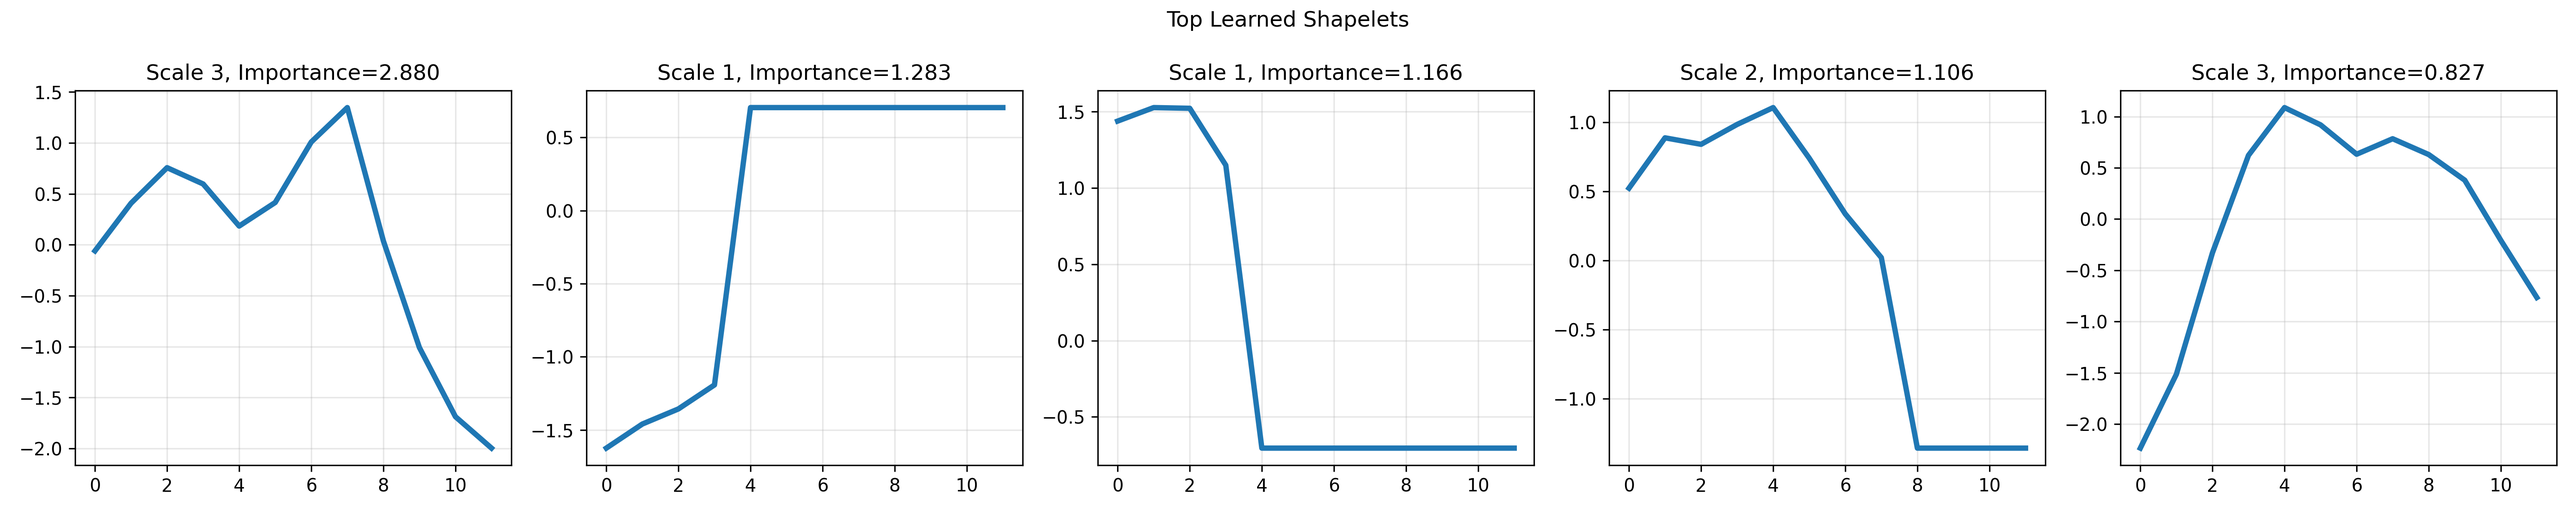
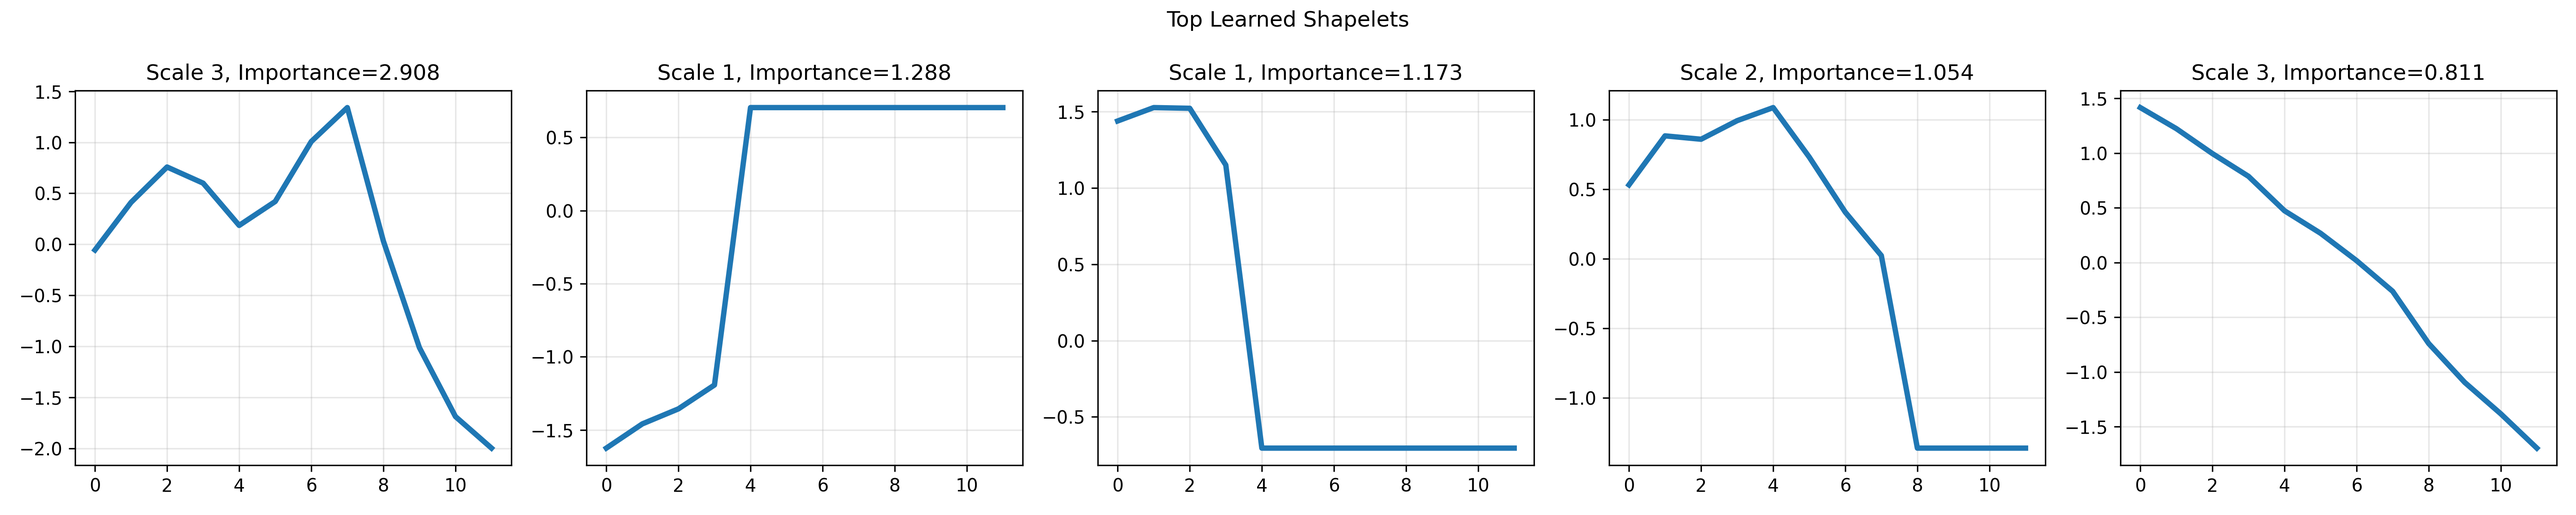
mise à jour

diff --git a/experiments/methodes_benchmark.py b/experiments/methodes_benchmark.py
@@ -1,0 +1,244 @@
+import os
+import json
+import numpy as np
+import pandas as pd
+import matplotlib.pyplot as plt
+import seaborn as sns
+
+from sklearn.metrics import accuracy_score, classification_report, confusion_matrix
+from sklearn.neighbors import KNeighborsClassifier
+from sklearn.svm import SVC
+from sklearn.linear_model import LogisticRegression
+
+from src.lts import LearningTimeSeriesShapelets
+from src.utils import load_ucr_dataset, normalize_with_sklearn
+
+
+# -----------------------------
+# Config
+# -----------------------------
+SEED = 42
+np.random.seed(SEED)
+
+PAPER_CFG = dict(
+    K=0.3,
+    L_min=0.2,
+    R=3,
+    lambda_w=0.01,
+    learning_rate=0.01,
+    max_iter=500,     # paper setting (adjust if too slow)
+    alpha=-100
+)
+
+DATASET = dict(
+    name="ItalyPowerDemand",
+    train_path="data/ItalyPowerDemand_TRAIN",
+    test_path="data/ItalyPowerDemand_TEST",
+)
+
+OUTDIR = os.path.join("results", DATASET["name"])
+FIGDIR = os.path.join(OUTDIR, "figures")
+TABDIR = os.path.join(OUTDIR, "tables")
+LOGDIR = os.path.join(OUTDIR, "logs")
+
+for d in [OUTDIR, FIGDIR, TABDIR, LOGDIR]:
+    os.makedirs(d, exist_ok=True)
+
+
+# -----------------------------
+# Helpers
+# -----------------------------
+def save_confusion(y_true, y_pred, title, filename):
+    cm = confusion_matrix(y_true, y_pred)
+    plt.figure(figsize=(6, 5))
+    sns.heatmap(
+        cm, annot=True, fmt="d", cmap="Blues",
+        xticklabels=np.unique(y_true),
+        yticklabels=np.unique(y_true)
+    )
+    plt.title(title)
+    plt.xlabel("Predicted")
+    plt.ylabel("True")
+    plt.tight_layout()
+    plt.savefig(filename, dpi=300)
+    plt.close()
+
+
+def save_class_distribution(y, filename, title="Class distribution (train)"):
+    counts = pd.Series(y).value_counts().sort_index()
+    plt.figure(figsize=(6, 4))
+    sns.barplot(x=counts.index.astype(str), y=counts.values)
+    plt.title(title)
+    plt.xlabel("Class")
+    plt.ylabel("Count")
+    plt.tight_layout()
+    plt.savefig(filename, dpi=300)
+    plt.close()
+
+
+def save_series_by_class(X, y, filename, n_per_class=10, title="Time series by class (train)"):
+    plt.figure(figsize=(10, 5))
+    classes = np.unique(y)
+    for c in classes:
+        idx = np.where(y == c)[0][:n_per_class]
+        for i in idx:
+            plt.plot(X[i], alpha=0.25)
+        plt.plot(X[y == c].mean(axis=0), linewidth=3, label=f"Mean class {c}")
+    plt.title(title)
+    plt.xlabel("Time")
+    plt.ylabel("Value")
+    plt.legend()
+    plt.grid(alpha=0.3)
+    plt.tight_layout()
+    plt.savefig(filename, dpi=300)
+    plt.close()
+
+
+def plot_accuracy_vs_train_fraction(fractions, accs, filename):
+    plt.figure(figsize=(6, 4))
+    plt.plot(fractions, accs, marker="o")
+    plt.title("Accuracy vs Training Size (Paper hyperparameters)")
+    plt.xlabel("Fraction of training data")
+    plt.ylabel("Test accuracy")
+    plt.grid(alpha=0.3)
+    plt.tight_layout()
+    plt.savefig(filename, dpi=300)
+    plt.close()
+
+
+def plot_loss_curve(loss_history, filename):
+    plt.figure(figsize=(6, 4))
+    plt.plot(loss_history)
+    plt.title("Training Loss Convergence")
+    plt.xlabel("Iteration")
+    plt.ylabel("Loss")
+    plt.grid(alpha=0.3)
+    plt.tight_layout()
+    plt.savefig(filename, dpi=300)
+    plt.close()
+
+
+def plot_top_shapelets(lts_model, filename, top_n=5):
+    # Importance across classes: sum_c |W|
+    if lts_model.W.ndim == 3:
+        importance = np.sum(np.abs(lts_model.W), axis=0)  # (R, K)
+    else:
+        importance = np.abs(lts_model.W)
+
+    flat = importance.flatten()
+    top_idx = np.argsort(flat)[-top_n:][::-1]
+
+    fig, axes = plt.subplots(1, len(top_idx), figsize=(4 * len(top_idx), 4))
+    if len(top_idx) == 1:
+        axes = [axes]
+
+    for ax, idx in zip(axes, top_idx):
+        r, k = np.unravel_index(idx, importance.shape)
+        L_r = (r + 1) * lts_model.L_min_len
+        sh = lts_model.S[r, k, :L_r]
+        sh = (sh - sh.mean()) / (sh.std() + 1e-8)
+
+        ax.plot(sh, linewidth=3)
+        ax.set_title(f"Scale {r+1}\nImp={flat[idx]:.3f}")
+        ax.grid(alpha=0.3)
+
+    plt.suptitle("Top Learned Shapelets (Paper setting)")
+    plt.tight_layout()
+    plt.savefig(filename, dpi=300)
+    plt.close()
+
+
+# -----------------------------
+# Load data
+# -----------------------------
+X_train, y_train, X_test, y_test = load_ucr_dataset(DATASET["train_path"], DATASET["test_path"])
+X_train_scaled, X_test_scaled = normalize_with_sklearn(X_train, X_test)
+
+# Save basic EDA figures
+save_class_distribution(y_train, os.path.join(FIGDIR, "class_distribution.png"))
+save_series_by_class(X_train_scaled, y_train, os.path.join(FIGDIR, "series_by_class.png"))
+
+# -----------------------------
+# Run methods
+# -----------------------------
+results = []
+
+# ---- Baseline: 1-NN ----
+knn = KNeighborsClassifier(n_neighbors=1)
+knn.fit(X_train_scaled, y_train)
+pred_knn = knn.predict(X_test_scaled)
+acc_knn = accuracy_score(y_test, pred_knn)
+results.append({"method": "1NN", "accuracy": acc_knn})
+
+save_confusion(y_test, pred_knn, "Confusion Matrix - 1NN", os.path.join(FIGDIR, "cm_1nn.png"))
+
+# ---- Baseline: SVM (RBF) ----
+svm = SVC()
+svm.fit(X_train_scaled, y_train)
+pred_svm = svm.predict(X_test_scaled)
+acc_svm = accuracy_score(y_test, pred_svm)
+results.append({"method": "SVM (RBF)", "accuracy": acc_svm})
+
+save_confusion(y_test, pred_svm, "Confusion Matrix - SVM", os.path.join(FIGDIR, "cm_svm.png"))
+
+# ---- LTS (paper setting) ----
+lts = LearningTimeSeriesShapelets(**PAPER_CFG)
+lts.fit(X_train_scaled, y_train)
+pred_lts = lts.predict(X_test_scaled)
+acc_lts = accuracy_score(y_test, pred_lts)
+results.append({"method": "LTS (paper)", "accuracy": acc_lts})
+
+save_confusion(y_test, pred_lts, "Confusion Matrix - LTS", os.path.join(FIGDIR, "cm_lts.png"))
+
+# If you added loss_history in fit()
+if hasattr(lts, "loss_history") and lts.loss_history is not None:
+    plot_loss_curve(lts.loss_history, os.path.join(FIGDIR, "loss_curve.png"))
+
+plot_top_shapelets(lts, os.path.join(FIGDIR, "top_shapelets.png"), top_n=5)
+
+# ---- LTS transform + Logistic Regression (extra baseline) ----
+Xtr_lts = lts.transform(X_train_scaled)
+Xte_lts = lts.transform(X_test_scaled)
+
+# Handle potential NaNs (shouldn't happen for fixed-length dataset, but safe)
+Xtr_lts = np.nan_to_num(Xtr_lts, nan=np.nanmean(Xtr_lts))
+Xte_lts = np.nan_to_num(Xte_lts, nan=np.nanmean(Xte_lts))
+
+logreg = LogisticRegression(max_iter=200)
+logreg.fit(Xtr_lts, y_train)
+pred_lr = logreg.predict(Xte_lts)
+acc_lr = accuracy_score(y_test, pred_lr)
+results.append({"method": "LTS-transform + LogReg", "accuracy": acc_lr})
+
+save_confusion(y_test, pred_lr, "Confusion Matrix - LTS-transform + LogReg", os.path.join(FIGDIR, "cm_lts_logreg.png"))
+
+# -----------------------------
+# Training size study (paper setting)
+# -----------------------------
+fractions = [0.1, 0.3]
+accs = []
+
+for frac in fractions:
+    n = int(frac * len(X_train_scaled))
+    lts_tmp = LearningTimeSeriesShapelets(**PAPER_CFG)
+    lts_tmp.fit(X_train_scaled[:n], y_train[:n])
+    accs.append(accuracy_score(y_test, lts_tmp.predict(X_test_scaled)))
+
+plot_accuracy_vs_train_fraction(fractions, accs, os.path.join(FIGDIR, "accuracy_vs_train_fraction.png"))
+
+# -----------------------------
+# Save results
+# -----------------------------
+results_df = pd.DataFrame(results).sort_values("accuracy", ascending=False)
+print("\n=== Benchmark results ===")
+print(results_df)
+
+results_df.to_csv(os.path.join(TABDIR, "benchmark_results.csv"), index=False)
+
+with open(os.path.join(LOGDIR, "run_config.json"), "w", encoding="utf-8") as f:
+    json.dump(
+        {"seed": SEED, "dataset": DATASET, "paper_cfg": PAPER_CFG},
+        f, indent=2
+    )
+
+print(f"\nSaved outputs to: {OUTDIR}")

diff --git a/experiments/run_lts_on_cinc.py b/experiments/run_lts_on_cinc.py
@@ -15,7 +15,7 @@ X_train, y_train, X_test, y_test = load_ucr_dataset(
 X_train_scaled, X_test_scaled = normalize_with_sklearn(X_train, X_test)
 
 #  Initialiser et entraîner le modèle
-lts = LearningTimeSeriesShapelets(K=0.3, L_min=0.2, R=3, max_iter=20)
+lts = LearningTimeSeriesShapelets(K=0.3, L_min=0.2, R=3, max_iter=200)
 lts.fit(X_train_scaled, y_train)
 
 # Évaluer le modèle
@@ -179,7 +179,7 @@ plt.savefig("results/training_loss.png", dpi=300)
 plt.show()
 
 ### Étude de sensibilité aux hyperparamètres
-Ks = [0.1, 0.2, 0.3, 0.4]
+Ks = [0.2, 0.3]
 results = []
 
 for k_val in Ks:
@@ -198,7 +198,7 @@ plt.show()
 
 # Étude de la taille d’apprentissage
 
-fractions = [0.3, 0.5, 0.7, 1.0]
+fractions = [0.3, 0.5]
 acc_train_size = []
 
 for frac in fractions:
